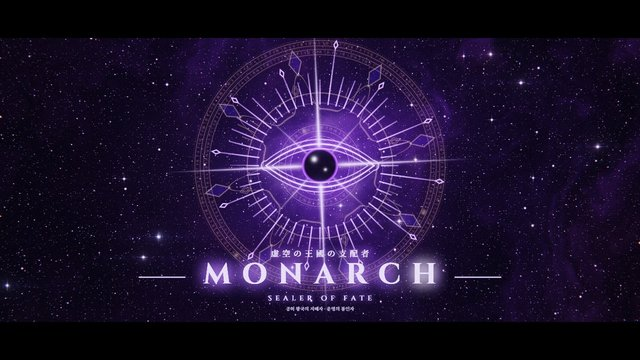
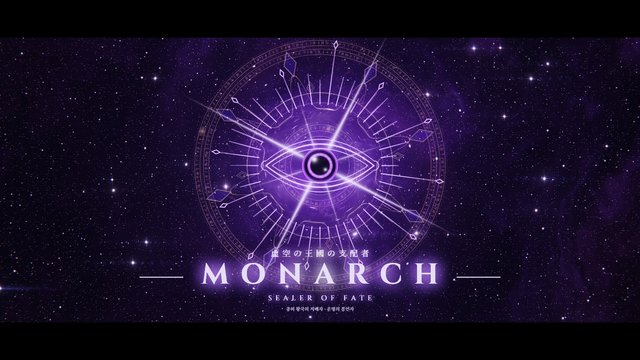
MONARCH V3: supernatural layer - lensing, light grain flows, ghost smoke
Gravitational lensing bends the stars and nebula around the void; light
grains spiral into the void and orbit the intro rune ring (log-polar
flow), ghostly lit smoke tendrils drift behind, energy flows along the
rune rings and the crown and halo lines, the symbol's eye gets a glowing
iris, and a violet halation glows around bright light.

diff --git a/public/monarch3_gl.html b/public/monarch3_gl.html
@@ -72,7 +72,7 @@ void main(){
   vec2 dir = uv - .5; float ca = uCA * (.3 + length(dir) * 1.8) + uTrans * .01; vec3 col = scene(uv); if (ca > .0003){ vec3 c0 = texture(uScene, uv).rgb; col.r += texture(uScene, uv + dir * ca).r - c0.r; col.b += texture(uScene, uv - dir * ca).b - c0.b; col = max(col, 0.); }
   vec3 bl = texture(uBloom, uv).rgb, st = vec3(0.); for (int i = -7; i <= 7; i++){ float fi = float(i); st += texture(uBloom, uv + vec2(fi * .015, 0.)).rgb * exp(-fi * fi * .06); }
   float dirt = pow(fbm(vUv * vec2(5., 3.) + 3.), 3.) * 1.6 + pow(noise(vUv * vec2(60., 34.)), 12.) * 2.;                                                     // 렌즈 먼지 · 할레이션
-  col += bl * uBloomK * (1. + dirt * .7) + st * .16 * uBloomK * vec3(.55, .45, 1.) + texture(uRays, uv).rgb * uRayK + bl * vec3(.18, .04, .02) * uWarm * .6;
+  col += bl * uBloomK * (1. + dirt * .7) + st * .16 * uBloomK * vec3(.55, .45, 1.) + texture(uRays, uv).rgb * uRayK + bl * vec3(.18, .04, .02) * uWarm * .6 + bl * vec3(.14, .02, .12) * .5;
   vec4 tx = texture(uTxt, uv); col = col * (1. - tx.a) + tx.rgb; col += vec3(.85, .8, 1.) * uFlash;
   col = (col * (2.51 * col + .03)) / (col * (2.43 * col + .59) + .14); col = pow(clamp(col, 0., 1.), vec3(1. / 2.2)); col = mix(col, col * col * (3. - 2. * col), .35) * vec3(.98, .95, 1.04); float lu = dot(col, vec3(.3, .55, .15)); col = mix(col, vec3(lu) * vec3(.72, .88, 1.15), uCold * .55); col = mix(col, col * vec3(1.1, .93, .88) + vec3(.02, .003, 0.) * (1. - lu), uWarm * .5);   // 차가운 밤 → 불지옥
   col += (hash(gl_FragCoord.xy + fract(uT) * 91.7) - .5) * .035 * uGrainK; float v = length((vUv - .5) * vec2(1., .8)); col *= 1. - smoothstep(.42, 1.1, v) * .6;
@@ -117,6 +117,13 @@ void main(){
     float br = .05 + .09 * hash(vec2(fi, 3.)), bd = length(s - bc); col += mix(vec3(.5, .2, 1.), vec3(1., .3, .65), hash(vec2(fi, 4.))) * (smoothstep(br, br * .8, bd) * .5 + smoothstep(.006, 0., abs(bd - br * .9)) * .4) * .06 * uBG; }
   col += vec3(.5, .22, 1.) * pow(noise(rot(uT * .05) * normalize(s + 1e-5) * 4. + uT * .12), 3.) * exp(-r * .8) * .22 * uBG * (1. + uTickP);       // 가운데서 천천히 도는 빛살
   if (uHailAge >= 0.){ float R = uHailAge * 2.4; col += (vec3(1., .85, 1.) * exp(-abs(r - R) * 60.) * 1.1 + vec3(.6, .3, 1.) * exp(-abs(r - R * .8) * 14.) * .3) * exp(-uHailAge * 2.5); }   // 만세마다 퍼지는 충격파
+  { float lr = log(max(r, 1e-3)), a = atan(s.y, s.x) / 6.2832; vec3 fm = vec3(0.);                                                  // 고리 둘레를 흐르는 빛의 알갱이(로그 극좌표의 평행이동 = 나선)
+    for (int L = 0; L < 3; L++){ float fl = float(L), Na = 40. + 18. * fl, Nr = 6. + 3. * fl; vec2 uv = vec2(a * Na + lr * (2. + fl), lr * Nr + uT * (.25 + .15 * fl));
+      vec2 id = floor(uv), iw = vec2(mod(id.x, Na), id.y), f = fract(uv) - .5; float h = hash(iw + fl * 13.); if (h > .16) continue;
+      vec2 d = f - (vec2(hash(iw + 3.1), hash(iw + 7.3)) - .5) * .5; fm += mix(vec3(.6, .3, 1.), vec3(1., .4, .8), hash(iw + 1.)) * exp(-(d.x * d.x * 90. + d.y * d.y * 12.) * max(r * r / .2, 1.)) * (.4 + .6 * sin(uT * 3. + h * 60.)); }   // 바깥에서도 알갱이 크기가 같게
+    col += fm * smoothstep(.15, .5, r) * smoothstep(1.3, .6, r) * .5 * uRingK; }
+  { vec2 q = rot(uT * .03) * s; q += .35 * vec2(fbm(q * 1.4 + vec2(0., uT * .12)), fbm(q * 1.4 + vec2(5.2, -uT * .1))); float td = pow(1. - abs(fbm(q * 2.3 + 4.) * 2. - 1.), 7.);   // 고리 뒤로 흐르는 유령 같은 연기 가닥
+    col += vec3(.55, .3, 1.) * td * exp(-r * 1.4) * .5 * uBG; }
   if (uStarK > 0.){ vec2 s = s * 2.; float r = length(s); vec2 q = rot(uT * 1.1) * s, q2 = rot(.785) * q;                                                                      // 눈 모양 룬 뒤에서 도는 보랏빛 별
     float st = exp(-abs(q.x) * 30.) * exp(-abs(q.y) * 1.8) + exp(-abs(q.y) * 30.) * exp(-abs(q.x) * 1.8) + (exp(-abs(q2.x) * 45.) * exp(-abs(q2.y) * 3.5) + exp(-abs(q2.y) * 45.) * exp(-abs(q2.x) * 3.5)) * .6;
     col += (vec3(.6, .25, 1.) * st * 1.1 + mix(vec3(.95, .8, 1.), vec3(.6, .3, 1.), smoothstep(0., .3, r)) * (exp(-r * 11.) * .9 + exp(-r * 3.) * .12)) * uStarK; }
@@ -147,19 +154,27 @@ vec3 nebula(vec2 p, float lit, float t, out float fo){                          
 vec3 runeBand(vec2 p, float R, float W, vec3 tint){ float r = length(p), an = atan(p.y, p.x) / 6.2832 + .5, v = (r - R) / W + .5, n = max(1., floor(6.2832 * R / (W * .95) / 26. + .5));   // 정면 룬 고리
   float g = v > 0. && v < 1. ? texture(uRunes, vec2(fract(an * n), v)).r : 0.;
   float rim = ln(abs(r - R - W * .62), .0015) + ln(abs(r - R + W * .62), .0015) + .6 * ln(abs(r - R - W * 1.05), .0012) * smoothstep(.3, 0., abs(fract(an * n * 52.) - .5));
-  return tint * (g * 1.15 + rim); }
+  return tint * (g * 1.15 + rim) * (.65 + .7 * noise(normalize(p + 1e-5) * R * 30. + vec2(uT * 2.5, 0.))); }
 void main(){
   vec2 s0 = (vUv - .5) * vec2(uRes.x / uRes.y, 1.) * 2.; PX = 2.2 / uRes.y / uZoomV;
   vec2 c0 = s0 - vec2(0., uPanY), s = rot(uRotV) * c0 / uZoomV; float r = length(s), an = atan(s.y, s.x), af = fract(an / 6.2832 + .25);
-  float f, lit = exp(-length(c0) * 1.7); vec2 bp = rot(uT * .02 + .3 / (length(c0) + .6)) * c0 * 1.1 / mix(1., uZoomV, .35);                // 배경: 가운데서 비추는 성운 · 세 겹의 별
+  float Rl = .23 * uVoidR * uZoomV * 1.7, bl0 = length(c0); vec2 cl = c0 - normalize(c0 + 1e-5) * Rl * Rl / max(bl0, Rl * .6);           // 공허의 중력 렌즈: 뒤의 별과 성운이 휜다
+  float f, lit = exp(-length(c0) * 1.7); vec2 bp = rot(uT * .02 + .3 / (length(cl) + .6)) * cl * 1.1 / mix(1., uZoomV, .35);                // 배경: 가운데서 비추는 성운 · 세 겹의 별
   vec3 col = vec3(.003, .001, .009) + nebula(bp * .75, lit, uT, f) + vec3(.3, .1, .7) * exp(-length(c0) * 2.5) * .2;
-  vec2 sp0 = c0 / mix(1., uZoomV, .5); col += starsL(sp0 * 70. + uT * vec2(.3, -.15), .45, .07) * .45 + starsL(sp0 * 28. + 3.7, .22, .06) * .85 + starsL(c0 / mix(1., uZoomV, .8) * 9. + 1.3, .08, .045) * 1.5;
+  vec2 sp0 = cl / mix(1., uZoomV, .5); col += starsL(sp0 * 70. + uT * vec2(.3, -.15), .45, .07) * .45 + starsL(sp0 * 28. + 3.7, .22, .06) * .85 + starsL(cl / mix(1., uZoomV, .8) * 9. + 1.3, .08, .045) * 1.5;
   vec3 bgc = col;
   float Rv = .23 * uVoidR, e = r - Rv;
   if (uSwirlK > 0.){ float lr = log(max(r, 1e-3)), spv = an * 3. + lr * 5.5 + uT * 2.4, arms = pow(.5 + .5 * cos(spv), 5.), fil = fbm(rot(lr * 1.8 + uT * .28) * normalize(s + 1e-5) * 5. + vec2(lr * 4. - uT * .8, lr * 1.5));   // 공허로 빨려드는 세 갈래 나선의 빛
     float fall = smoothstep(Rv, Rv * 1.5, r) * exp(-max(r - Rv, 0.) * 2.6);
     vec3 sc = mix(vec3(1., .88, 1.), vec3(.72, .26, 1.), smoothstep(Rv, Rv * 2.6, r)); sc = mix(sc, vec3(1., .22, .58), smoothstep(Rv * 2.2, Rv * 4.5, r)); sc = mix(sc, vec3(.12, .1, .6), smoothstep(Rv * 4., Rv * 7., r));
     col += sc * (arms * .8 + pow(fil, 2.5) * 1.4) * fall * uSwirlK * (1. - .5 * uSealK); }
+  if (uSwirlK > 0.){ float lr = log(max(r, 1e-3)), a = atan(s.y, s.x) / 6.2832; vec3 fm = vec3(0.);                                // 공허로 빨려드는 빛의 알갱이
+    for (int L = 0; L < 3; L++){ float fl = float(L), Na = 34. + 16. * fl, Nr = 5.5 + 2.5 * fl; vec2 uv = vec2(a * Na + lr * (5. + fl * 1.5), lr * Nr + uT * (1.1 + .5 * fl));
+      vec2 id = floor(uv), iw = vec2(mod(id.x, Na), id.y), f = fract(uv) - .5; float h = hash(iw + fl * 13.); if (h > .2) continue;
+      vec2 d = f - (vec2(hash(iw + 3.1), hash(iw + 7.3)) - .5) * .5; fm += mix(vec3(.75, .45, 1.), vec3(1., .35, .7), hash(iw + 1.)) * exp(-(d.x * d.x * 80. + d.y * d.y * 7.) * max(r * r / .12, 1.)) * (.5 + .5 * sin(uT * 4. + h * 60.)); }   // 바깥에서도 알갱이 크기가 같게
+    col += fm * smoothstep(Rv, Rv * 1.4, r) * smoothstep(1.2, .45, r) * .8 * uSwirlK; }
+  { vec2 q = rot(uT * .04 + .4 / (r + .3)) * s; q += .3 * vec2(fbm(q * 1.6 + vec2(0., uT * .15)), fbm(q * 1.6 + vec2(5.2, -uT * .12))); float td = pow(1. - abs(fbm(q * 2.6 + 4.) * 2. - 1.), 7.);   // 유령 같은 연기 가닥
+    col += vec3(.6, .3, 1.) * td * exp(-max(r - Rv, 0.) * 1.5) * smoothstep(Rv, Rv * 1.2, r) * .45 * uVoidR * (1. - .6 * uSealK); }
   if (uVoidR > 0.){ col += vec3(.5, .2, 1.) * exp(-max(e, 0.) * 12.) * .45 * (.6 + .4 * fbm(normalize(s + 1e-5) * 2.5 + uT * .3)) * uVoidR + vec3(1., .92, 1.) * ln(abs(e), .0025) * 1.5;   // 공허: 빛을 삼키는 검은 원 · 흰 테두리 · 코로나
     col += vec3(.7, .4, 1.) * pow(max(0., fbm(normalize(s + 1e-5) * 4.5 + vec2(uT * .2, 1.)) - .35), 2.) * exp(-max(e, 0.) * 5.) * step(0., e) * 2. * uVoidR;
     if (e < 0.){ vec2 w = s / Rv; col = vec3(.0015, 0., .004) + vec3(.3, .08, .7) * exp(e / Rv * 10.) * .35;
@@ -175,13 +190,14 @@ void main(){
     float gq = mod(atan(p.y, p.x) - uT * (1.5 + .5 * fi) + 3.1416, 6.2832) - 3.1416; col += gold * exp(-gq * gq * R * R * 2500.) * smoothstep(W, 0., abs(length(p) - R)) * 1.2 * uArmK; }   // 룬 고리를 훑는 금빛 광채
   if (uMotes > 0. && uMotes < 1.) for (int i = 0; i < 16; i++){ float fi = float(i), th = fi / 16. * 6.2832 + uT * .6 + uMotes * 4., rr = mix(1.25, Rv * 1.05, pow(uMotes, 1.3)); float d = length(s - vec2(cos(th), sin(th)) * rr), k = (1. - smoothstep(.85, 1., uMotes)) * smoothstep(0., .06, uMotes);   // 만세의 빛들이 무릎 꿇듯 공허로
     col += (vec3(1., .93, 1.) * exp(-d * d * 12000.) * 1.6 + vec3(.7, .35, 1.) * exp(-d * 45.) * .22) * k; }
+  float ef = .7 + .6 * noise(normalize(s + 1e-5) * 18. + vec2(uT * 2., 0.));                                                      // 왕관 · 후광 선 위로 흐르는 에너지
   if (uCrownK > 0.){ vec2 q = rot(-uT * .12) * s; float a8 = atan(q.y, q.x), rs = mix(.45, .74, pow(abs(cos(a8 * 4.)), 8.)), m = step(af, uCrownK);   // 왕관이라는 개념: 반시계로 도는 여덟 꼭짓점 별 · 여덟 다이아
-    col += gold * ln(abs(r - rs) * .6, .0022) * 1.3 * m; float ai = floor(a8 / .785398 + .5), aa = a8 - ai * .785398; vec2 dq = vec2(cos(aa), sin(aa)) * r - vec2(.835, 0.); float dk = abs(dq.x) / .1 + abs(dq.y) / .05;
-    col += (vec3(.2, .1, .95) * step(dk, 1.) * .55 + gold * ln(abs(dk - 1.) * .035, .0015) * 1.4) * m; }
+    col += gold * ef * ln(abs(r - rs) * .6, .0022) * 1.3 * m; float ai = floor(a8 / .785398 + .5), aa = a8 - ai * .785398; vec2 dq = vec2(cos(aa), sin(aa)) * r - vec2(.835, 0.); float dk = abs(dq.x) / .1 + abs(dq.y) / .05;
+    col += (vec3(.2, .1, .95) * step(dk, 1.) * .55 + gold * ef * ln(abs(dk - 1.) * .035, .0015) * 1.4) * m; }
   if (uHaloK > 0.){ vec2 b1 = rot(uT * .5) * s, b2 = rot(-uT * .65) * s; float a1 = atan(b1.y, b1.x), m1 = step(fract(a1 / 6.2832 + .25), uHaloK), m2 = step(fract(atan(b2.y, b2.x) / 6.2832 + .75), uHaloK);   // 큰 후광 시계 · 작은 후광 반시계
     float ai = floor(a1 / 1.5708 + .5), aa = a1 - ai * 1.5708, spikes = 0.; for (int j = -1; j <= 1; j++){ float fj = float(j), L = j == 0 ? .15 : .08; vec2 sd = vec2(cos(aa - fj * .11), sin(aa - fj * .11)) * r; spikes += ln(abs(sd.y), .0022) * step(.58, sd.x) * step(sd.x, .58 + L); }
     float aj = floor((a1 - .785) / 1.5708 + .5), ab = a1 - .785 - aj * 1.5708; vec2 dq = abs(vec2(cos(ab), sin(ab)) * r - vec2(.62, 0.)) / vec2(.047, .029); float dia2 = ln(abs(dq.x + dq.y - 1.) * .025, .0015) + ln(abs(dq.x + dq.y - .55) * .025, .001);   // 두 겹 다이아
-    col += gold * (ln(abs(r - .576), .003) * 1.3 + spikes * 1.1 + dia2) * m1 + vec3(.7, .5, 1.) * ln(abs(r - .497), .0018) * m2; }
+    col += gold * ef * (ln(abs(r - .576), .003) * 1.3 + spikes * 1.1 + dia2) * m1 + vec3(.7, .5, 1.) * ln(abs(r - .497), .0018) * m2; }
   col += vec3(.55, .25, 1.) * pow(noise(rot(uT * .08) * normalize(s + 1e-5) * 5. + uT * .15), 3.5) * exp(-max(r - Rv, 0.) * 1.6) * smoothstep(Rv, Rv * 1.08, r) * .35 * uVoidR;           // 공허에서 뻗는 빛살
   for (int i = 0; i < 40; i++){ float fi = float(i), h1 = hash(vec2(fi, 7.)), h2 = hash(vec2(fi, 8.)), rr = .32 + .7 * h1, th = h2 * 6.2832 + uT * (.15 + .5 * (1. - h1)) * (mod(fi, 2.) < .5 ? 1. : -1.);   // 둘레를 도는 반짝임
     float d = length(s - vec2(cos(th), sin(th)) * rr), tw = .5 + .5 * sin(uT * (3. + 5. * h1) + fi * 7.); col += vec3(1., .9, 1.) * (exp(-d * d * 30000.) * 1.4 + exp(-d * 60.) * .06) * tw * uArmK; }
@@ -196,7 +212,7 @@ void main(){
     vec2 q = rot(uT * 1.3) * p, q2 = rot(.785) * q;                                                                                 // 도는 네 갈래 칼날 별
     float bl = exp(-abs(q.x) * 70. * (1. + abs(q.y) * 7.)) * smoothstep(.9, 0., abs(q.y)) + exp(-abs(q.y) * 70. * (1. + abs(q.x) * 7.)) * smoothstep(.9, 0., abs(q.x));
     float bl2 = (exp(-abs(q2.x) * 110. * (1. + abs(q2.y) * 9.)) * smoothstep(.45, 0., abs(q2.y)) + exp(-abs(q2.y) * 110. * (1. + abs(q2.x) * 9.)) * smoothstep(.45, 0., abs(q2.x))) * .6;
-    vec3 ball = vec3(.004, 0., .012) + vec3(.4, .14, .9) * smoothstep(.018, 0., abs(r2 - .1)) + vec3(1.) * (exp(-length(p - vec2(-.032, .036)) * 150.) * 1.6 + exp(-length(p - vec2(.03, -.022)) * 240.) * .9);   // 검은 눈알 · 흰 반짝임 둘
+    vec3 ball = vec3(.004, 0., .012) + vec3(.4, .14, .9) * smoothstep(.018, 0., abs(r2 - .1)) + vec3(.55, .2, 1.) * smoothstep(.012, 0., abs(r2 - .062)) * (.5 + .5 * noise(normalize(p + 1e-5) * 24. + uT * 1.5)) * 1.4 + vec3(1.) * (exp(-length(p - vec2(-.032, .036)) * 150.) * 1.6 + exp(-length(p - vec2(.03, -.022)) * 240.) * .9);   // 검은 눈알 · 흰 반짝임 둘
     col = mix(col, ball, inside * min(uSym, 1.)); col += (vec3(.72, .5, 1.) * (rays * .9 + lids) + vec3(.9, .78, 1.) * (bl * 1.05 + bl2 * .8) * (1. - inside * .95) * smoothstep(.06, .16, r2) + vec3(.4, .15, .9) * exp(-r2 * 7.) * .12 * (1. - inside)) * uSym; }
   if (uStamp >= 0. && uStamp < 1.2){ float aB = atan(c0.y, c0.x) / 6.2832 * 72., hb = hash(vec2(floor(aB), 5.)), rl = length(c0), head = uStamp * (1.6 + 1.4 * hb);   // 상징이 칠 때 사방으로 터지는 빛줄기
     col += vec3(.95, .8, 1.) * step(.55, hb) * smoothstep(head - .35 * hb - .02, head - .35 * hb, rl) * smoothstep(head + .02, head, rl) * smoothstep(.12, .04, abs(fract(aB) - .5)) * exp(-uStamp * 3.) * 1.4; }
